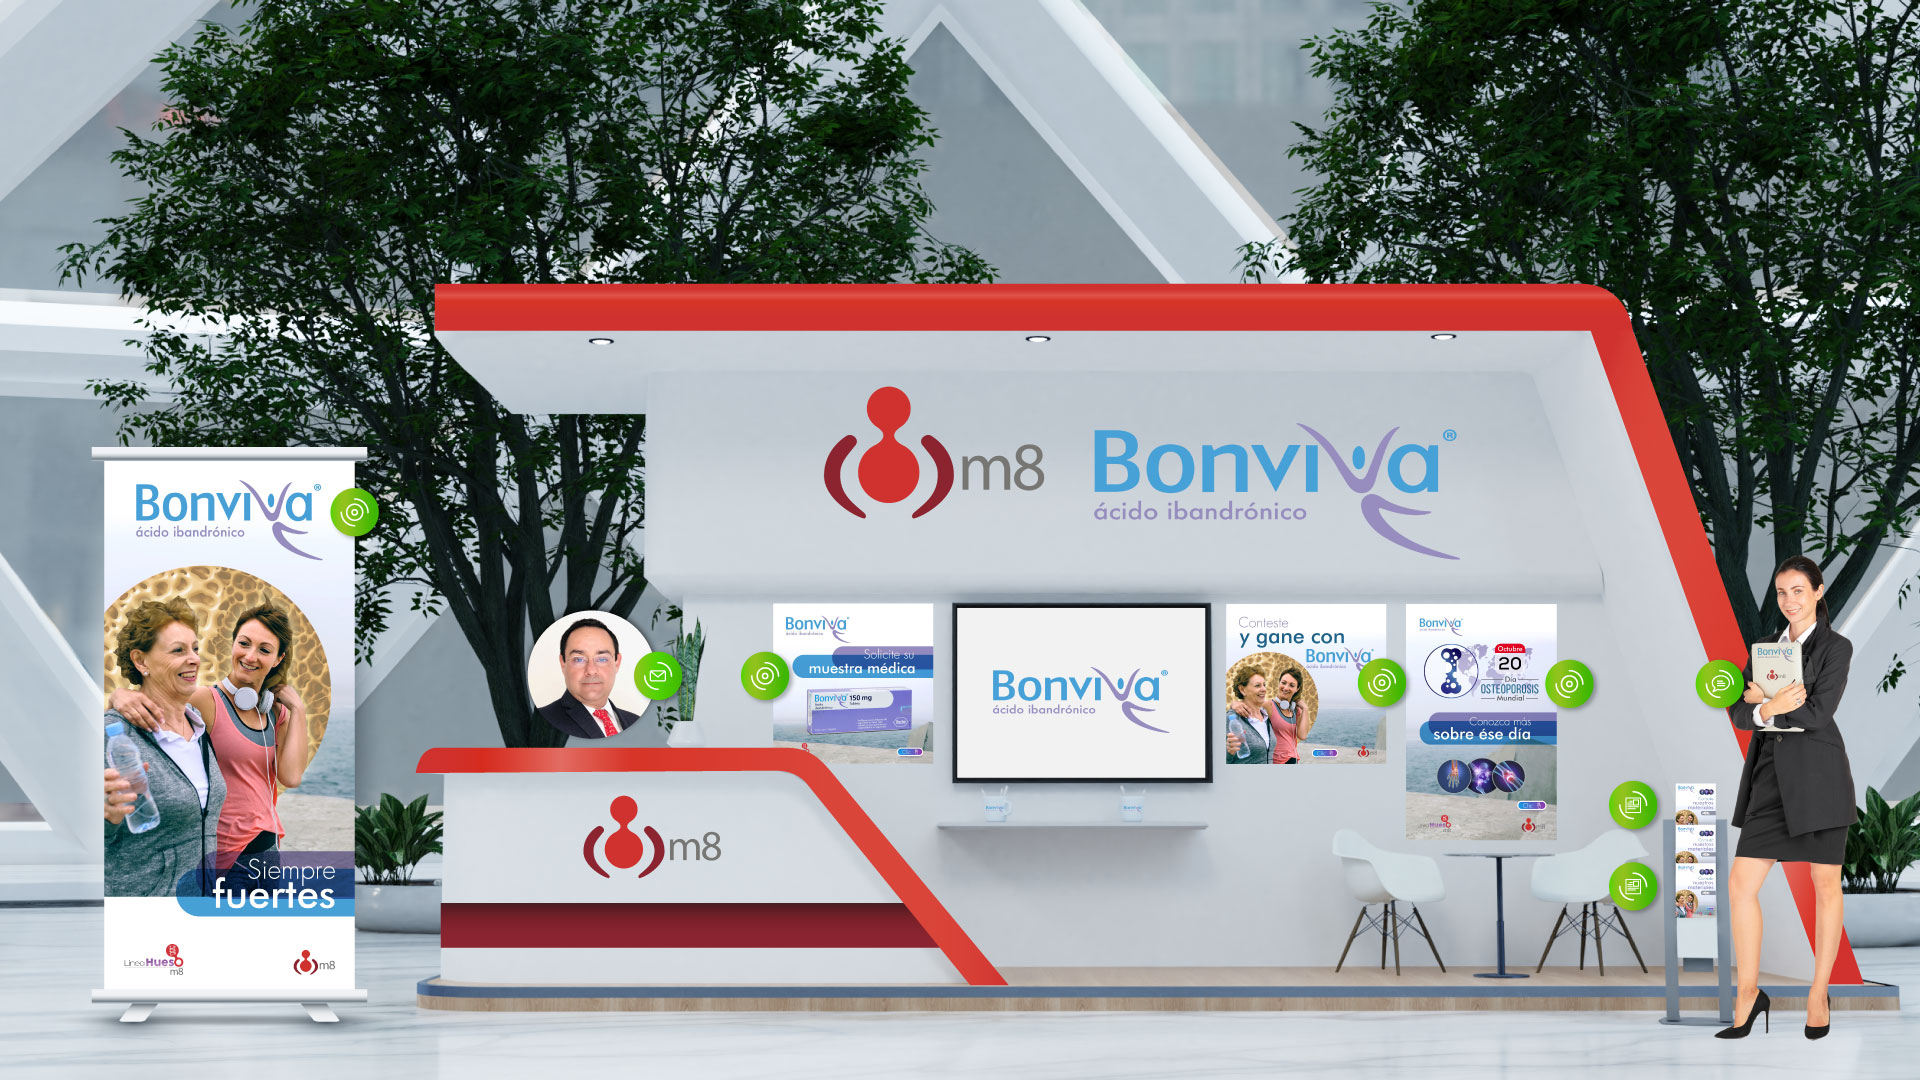
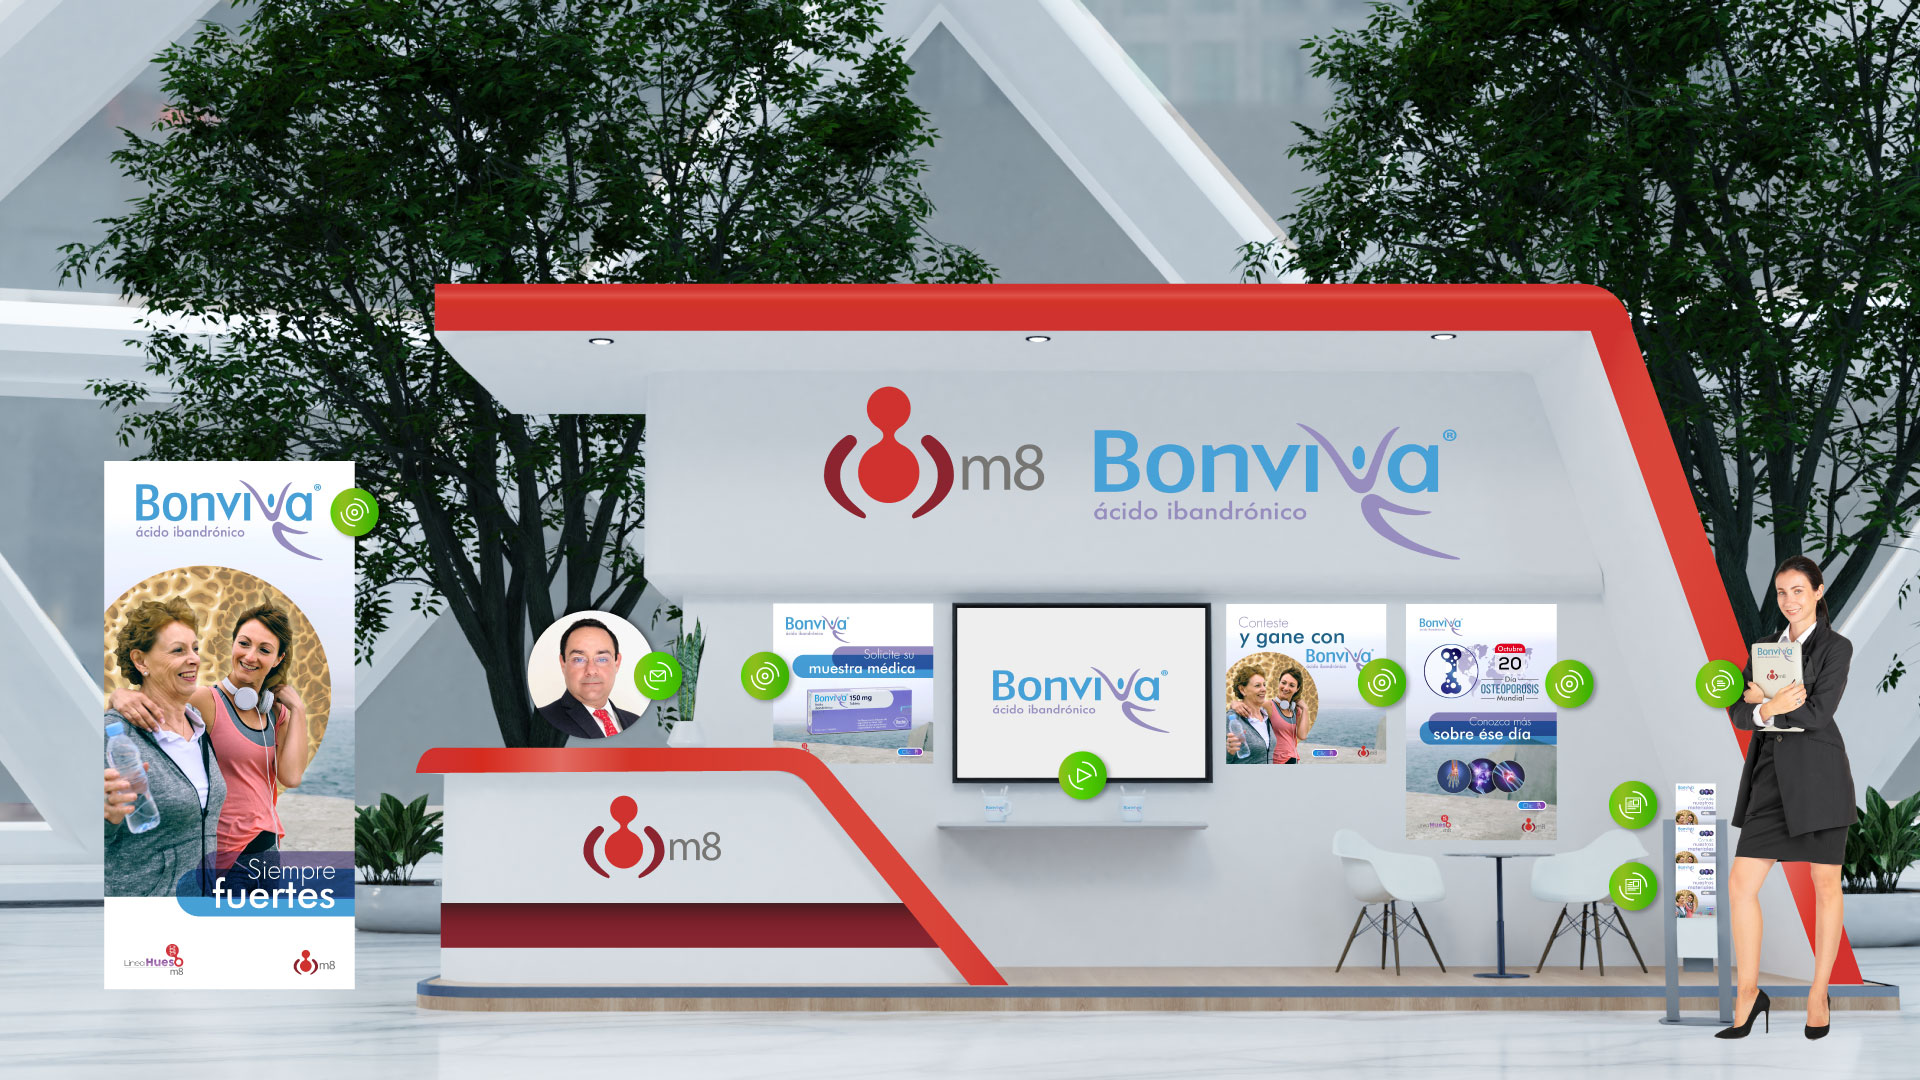
video

diff --git a/pages/congreso-virtual/m8.vue b/pages/congreso-virtual/m8.vue
@@ -34,6 +34,7 @@
                         <a href="http://www.m8congresos.com/ammom/quiz" target="_blank" class="rim-hotspot" style="width:9.1%; height:16.2%; left:63.8%; top:55.8%; position:absolute; cursor:pointer; display:block; z-index:5; overflow:hidden;"></a>
                         <a href="http://www.m8congresos.com/ammom/muestra-medica" target="_blank" class="rim-hotspot" style="width:10.9%; height:17.3%; left:38.4%; top:54.6%; position:absolute; cursor:pointer; display:block; z-index:5; overflow:hidden;"></a>
                         <a @click="$bvModal.show('uno')" class="rim-hotspot" style="width:15.9%; height:54.8%; left:4.0%; top:40.4%; position:absolute; cursor:pointer; display:block; z-index:5; overflow:hidden;"></a>
+                        <a @click="$bvModal.show('videos')" class="rim-hotspot" style="width:13.2%; height:21.1%; left:49.5%; top:55.6%; position:absolute; cursor:pointer; display:block; z-index:5; overflow:hidden;"></a>
                     </div>
                 </div>
 
@@ -119,6 +120,14 @@
                                 </div>
 
                             </b-modal>
+                            <b-modal  id="videos" hide-footer>
+                                <div class="d-block text-center">
+                                    <iframe src="https://player.vimeo.com/video/470355252?autoplay=1" width="100%" height="361" frameborder="0" allow="autoplay; fullscreen" allowfullscreen></iframe>
+                                </div>
+
+                            </b-modal>
+
+                            
 
                         </div>
                     </div>
